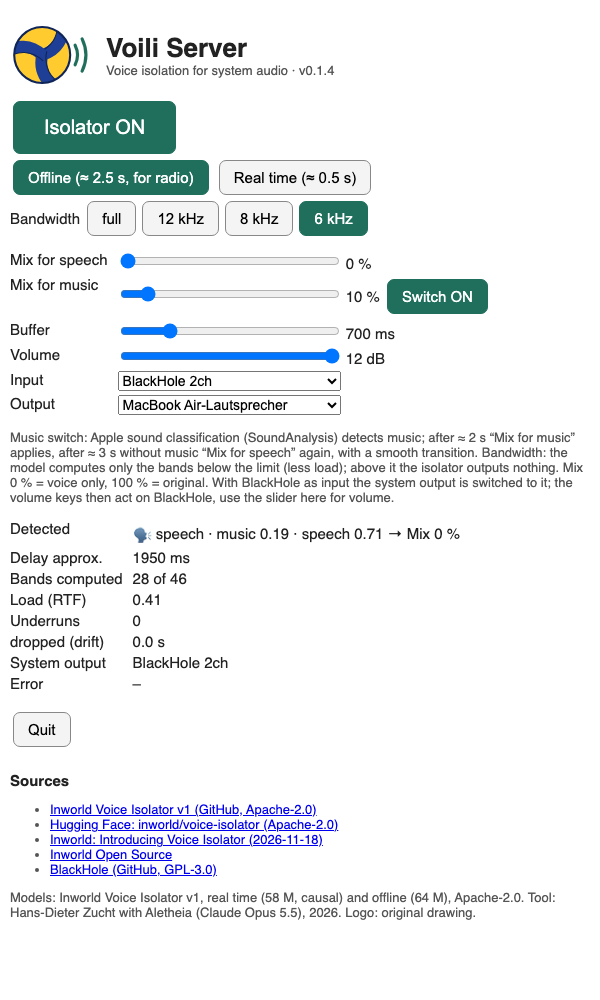
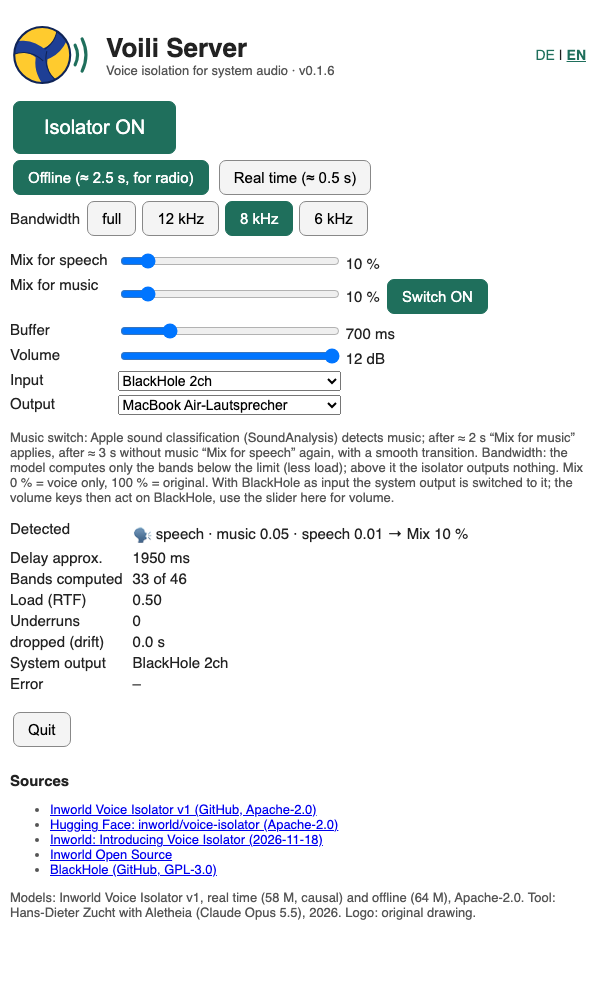
Voili Server 0.1.6: language switch DE | EN in the control panel
- DE | EN at the top right, also ?lang=de / ?lang=en; the choice is remembered,
  without a choice the browser language decides
- README and screenshot updated

Hans-Dieter Zucht (@HDZucht) and Aletheia (616a403f) (Claude Opus 5.5) — code suggestion with Claude Code

diff --git a/voili_server.py b/voili_server.py
@@ -16,6 +16,7 @@ Ends:   HDZ 2026-11-22: „es würde mir in Stufe null reichen, wenn ich es akus
         HDZ 2026-11-22 (v0.1.4): „übersetze Voili Server in Englisch, wenn Sprache nicht Deutsch ist … als Titel
         Voili Server … stilisiere den Volleyball … damit neues Bild rechtefrei wird, und mach da ein Logo rein“.
         Sprache folgt der Browsersprache (de → Deutsch, sonst Englisch); Fehler kommen als Codes (E_…).
+        HDZ 2026-11-22 (v0.1.6): „ja, mache Sprachumschalter“ → DE | EN oben rechts, auch ?lang=de|en, Wahl bleibt.
 Ways:   Eingang (BlackHole 2ch für Systemton, oder jedes andere Eingabegerät) → dieses Programm → Ausgabegerät.
         Ist der Eingang ein Loopback-Gerät (BlackHole, Loopback), wird die Standard-Ausgabe des Systems dorthin
         umgestellt und beim Wechsel oder Ende zurückgestellt.
@@ -45,7 +46,7 @@ from inworld.voice_isolation import VoiceIsolator
 sys.path.insert(0, os.path.dirname(os.path.abspath(__file__)))
 import bandgrenze  # noqa: E402
 
-VERSION = "0.1.5"
+VERSION = "0.1.6"
 SR = 48_000
 PORT = int(os.environ.get("VI_PORT", 8770))
 HIER = os.path.dirname(os.path.abspath(__file__))
@@ -425,6 +426,7 @@ SEITE = """<!doctype html><meta charset=utf-8><title>Voili Server</title>
 <style>body{font:15px -apple-system,sans-serif;max-width:580px;margin:20px auto;color:#222}
 header{display:flex;align-items:center;gap:12px;margin-bottom:8px}header img{width:84px}
 header h1{font-size:26px;margin:0}header .sub{font-size:13px;color:#555}
+.sprache{margin-left:auto;font-size:14px}.sprache a{color:#1f6f5c;text-decoration:none;padding:2px 4px}.sprache a.ein{font-weight:bold;text-decoration:underline}
 button{font-size:15px;padding:8px 14px;margin:3px;border-radius:7px;border:1px solid #888;background:#f4f4f4}
 button.ein{background:#1f6f5c;color:#fff;border-color:#1f6f5c}#an{font-size:20px;padding:14px 30px}
 table{border-collapse:collapse;margin-top:10px}td{padding:2px 10px 2px 0;vertical-align:top}
@@ -432,7 +434,8 @@ input[type=range]{width:220px}select{font-size:14px;max-width:300px}
 .hinweis{background:#fff6d8;border:1px solid #e3c96b;padding:8px 10px;border-radius:6px;font-size:14px}
 .klein{font-size:13px;color:#555}h4{margin:22px 0 6px}</style>
 <header><img src="/logo.svg" alt="Voili"><div><h1>Voili Server</h1>
-<div class=sub><span data-t=untertitel></span> · v__VERSION__</div></div></header>
+<div class=sub><span data-t=untertitel></span> · v__VERSION__</div></div>
+<div class=sprache><a id=l_de href="?lang=de">DE</a>|<a id=l_en href="?lang=en">EN</a></div></header>
 <button id=an onclick="s('an',Z.an?0:1)">…</button><br>
 <button id=offline onclick="s('modus','offline')" data-t=b_offline></button>
 <button id=echtzeit onclick="s('modus','echtzeit')" data-t=b_echtzeit></button><br>
@@ -470,7 +473,10 @@ erkannt:'Detected',musik:'music',sprache:'speech',verzoegerung:'Delay approx.',b
 unterlaeufe:'Underruns',verworfen:'dropped (drift)',systemton:'System output',fehler:'Error',beenden:'Quit',beenden_frage:'Quit and restore system audio?',quellen:'Sources',
 fuss:'Models: Inworld Voice Isolator v1, real time (58 M, causal) and offline (64 M), Apache-2.0. Tool: Hans-Dieter Zucht with Aletheia (Claude Opus 5.5), 2026. Logo: original drawing.',
 E_IN:'Input “{0}” missing – install BlackHole or choose another input',E_LOOP:'Output must not be a loopback device (feedback)',E_DEV:'Device: {0}',E_BAND:'Band limit: {0}',E_RUN:'Processing: {0}'}};
-const L=TX[(navigator.language||'en').toLowerCase().startsWith('de')?'de':'en'];document.documentElement.lang=L===TX.de?'de':'en';
+// Sprache: ?lang= (merkt sich die Wahl) > gemerkte Wahl > Browsersprache. HDZ 22.11.: „ja, mache Sprachumschalter“.
+const qs=new URLSearchParams(location.search).get('lang');if(qs==='de'||qs==='en')localStorage.setItem('voili_lang',qs);
+const SPR=localStorage.getItem('voili_lang')||((navigator.language||'en').toLowerCase().startsWith('de')?'de':'en');
+const L=TX[SPR];document.documentElement.lang=SPR;document.getElementById('l_'+SPR).className='ein';
 document.querySelectorAll('[data-t]').forEach(e=>e.textContent=L[e.dataset.t]);document.querySelectorAll('[data-th]').forEach(e=>e.innerHTML=L[e.dataset.th]);
 function fx(f){if(!f)return '–';const [k,...a]=f.split('|');return L[k]?L[k].replace('{0}',a.join('|')):f}
 const zahl=(v,n)=>L===TX.de?v.toFixed(n).replace('.',','):v.toFixed(n);

diff --git a/README.md b/README.md
@@ -1,6 +1,6 @@
 ---
 name: Voili Server
-version: 0.1.5
+version: 0.1.6
 summary: Listen to the speech of shortwave radio (SDR) free of noise, with Inworld's voice isolation model running live on your Mac's system audio.
 platform: macOS on Apple Silicon (MPS)
 license: Apache-2.0 (attribution of author and sources required, see NOTICE)
@@ -37,7 +37,7 @@ system audio ──► BlackHole 2ch ──► Voili Server (Inworld model on th
 - **Instant A/B.** Isolated and original run side by side, sample-aligned. The on/off switch and the mix act at playback time, without a jump.
 - **Devices.** Input and output are selectable. With BlackHole as input, the system output is routed to BlackHole and restored when you quit.
 - **SDR software.** Select BlackHole as the audio output of your SDR application; Voili Server then processes only that application.
-- **Languages.** The panel is German when the browser language is German, English otherwise.
+- **Languages.** German or English: switch with DE | EN in the panel (or `?lang=de` / `?lang=en`); without a choice the browser language decides.
 
 ## Try it: example for ham DX
 
